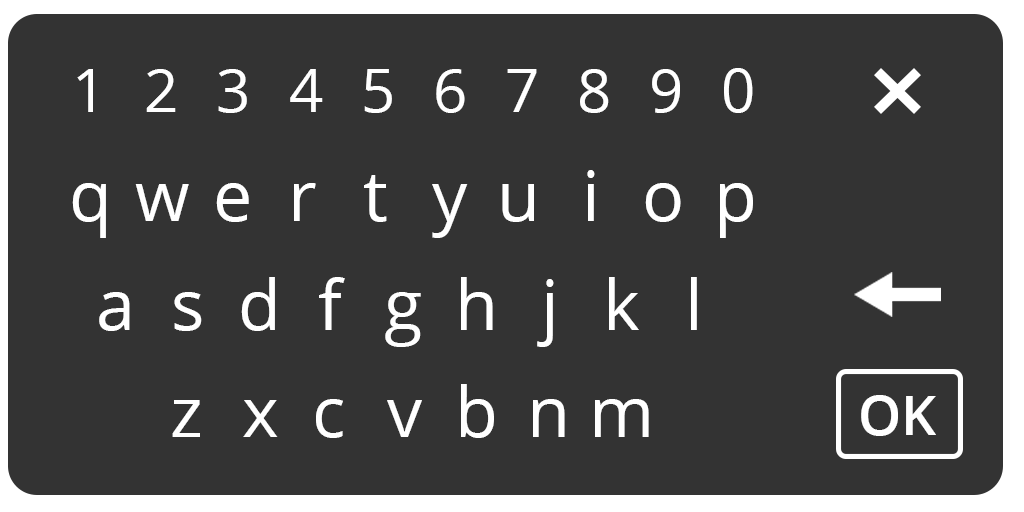
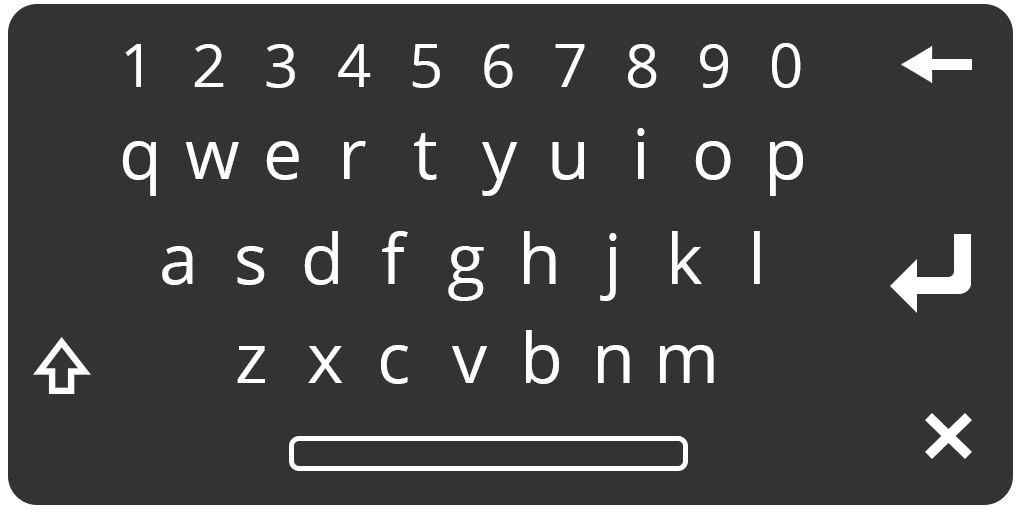
improved keyboard

diff --git a/src/simple-keyboard.js b/src/simple-keyboard.js
@@ -18,13 +18,14 @@ AFRAME.registerComponent('simple-keyboard', {
 
   init: function(){
     this.KEYBOARDS = {
-      'basic': {img: "./sk-basic.png", layout: [{"key":"1", "x":0.053, "y":0.089, "w":0.065, "h":0.167}, {"key":"2", "x":0.124, "y":0.089, "w":0.065, "h":0.167}, {"key":"3", "x":0.194, "y":0.089, "w":0.066, "h":0.167}, {"key":"4", "x":0.265, "y":0.089, "w":0.065, "h":0.167}, {"key":"5", "x":0.334, "y":0.089, "w":0.066, "h":0.167}, {"key":"6", "x":0.406, "y":0.089, "w":0.065, "h":0.167}, {"key":"7", "x":0.476, "y":0.089, "w":0.065, "h":0.167}, {"key":"8", "x":0.545, "y":0.089, "w":0.066, "h":0.167}, {"key":"9", "x":0.617, "y":0.089, "w":0.065, "h":0.167}, {"key":"0", "x":0.687, "y":0.089, "w":0.065, "h":0.167}, {"key":"Escape", "x":0.836, "y":0.101, "w":0.079, "h":0.158}, {"key":"Delete", "x":0.82, "y":0.507, "w":0.116, "h":0.132}, {"key":"Enter", "x":0.82, "y":0.726, "w":0.116, "h":0.164}, {"key":"q", "x":0.054, "y":0.308, "w":0.065, "h":0.167}, {"key":"w", "x":0.124, "y":0.308, "w":0.065, "h":0.167}, {"key":"e", "x":0.194, "y":0.308, "w":0.066, "h":0.167}, {"key":"r", "x":0.265, "y":0.308, "w":0.065, "h":0.167}, {"key":"t", "x":0.334, "y":0.308, "w":0.066, "h":0.167}, {"key":"y", "x":0.406, "y":0.308, "w":0.065, "h":0.167}, {"key":"u", "x":0.476, "y":0.308, "w":0.065, "h":0.167}, {"key":"i", "x":0.545, "y":0.308, "w":0.066, "h":0.167}, {"key":"o", "x":0.617, "y":0.308, "w":0.065, "h":0.167}, {"key":"p", "x":0.687, "y":0.308, "w":0.065, "h":0.167}, {"key":"a", "x":0.081, "y":0.519, "w":0.065, "h":0.167}, {"key":"s", "x":0.151, "y":0.519, "w":0.066, "h":0.167}, {"key":"d", "x":0.222, "y":0.519, "w":0.065, "h":0.167}, {"key":"f", "x":0.291, "y":0.519, "w":0.066, "h":0.167}, {"key":"g", "x":0.363, "y":0.519, "w":0.065, "h":0.167}, {"key":"h", "x":0.433, "y":0.519, "w":0.065, "h":0.167}, {"key":"j", "x":0.502, "y":0.519, "w":0.066, "h":0.167}, {"key":"k", "x":0.574, "y":0.519, "w":0.065, "h":0.167}, {"key":"l", "x":0.644, "y":0.519, "w":0.065, "h":0.167}, {"key":"z", "x":0.152, "y":0.728, "w":0.065, "h":0.167}, {"key":"x", "x":0.221, "y":0.728, "w":0.066, "h":0.167}, {"key":"c", "x":0.292, "y":0.728, "w":0.065, "h":0.167}, {"key":"v", "x":0.363, "y":0.728, "w":0.065, "h":0.167}, {"key":"b", "x":0.432, "y":0.728, "w":0.066, "h":0.167}, {"key":"n", "x":0.503, "y":0.728, "w":0.065, "h":0.167}, {"key":"m", "x":0.574, "y":0.728, "w":0.065, "h":0.167}] }
+      'basic': {img: "./sk-basic.png", layout: [{"key":"f", "x":0.345, "y":0.423, "w":0.071, "h":0.189}, {"key":"g", "x":0.416, "y":0.423, "w":0.071, "h":0.189}, {"key":"1", "x":0.093, "y":0.042, "w":0.071, "h":0.187}, {"key":"2", "x":0.164, "y":0.042, "w":0.071, "h":0.187}, {"key":"3", "x":0.234, "y":0.042, "w":0.071, "h":0.187}, {"key":"4", "x":0.304, "y":0.042, "w":0.071, "h":0.187}, {"key":"5", "x":0.375, "y":0.042, "w":0.071, "h":0.187}, {"key":"6", "x":0.445, "y":0.042, "w":0.071, "h":0.187}, {"key":"7", "x":0.515, "y":0.042, "w":0.071, "h":0.187}, {"key":"8", "x":0.585, "y":0.042, "w":0.071, "h":0.187}, {"key":"9", "x":0.656, "y":0.042, "w":0.072, "h":0.187}, {"key":"0", "x":0.727, "y":0.042, "w":0.07, "h":0.187}, {"key":"Delete", "x":0.853, "y":0.056, "w":0.113, "h":0.146}, {"key":"Enter", "x":0.854, "y":0.386, "w":0.113, "h":0.267}, {"key":"Escape", "x":0.883, "y":0.779, "w":0.083, "h":0.14}, {"key":"Shift", "x":0.016, "y":0.623, "w":0.088, "h":0.187}, {"key":"q", "x":0.093, "y":0.228, "w":0.071, "h":0.197}, {"key":"w", "x":0.164, "y":0.228, "w":0.071, "h":0.197}, {"key":"e", "x":0.234, "y":0.228, "w":0.071, "h":0.197}, {"key":"r", "x":0.304, "y":0.228, "w":0.071, "h":0.197}, {"key":"t", "x":0.375, "y":0.228, "w":0.071, "h":0.197}, {"key":"y", "x":0.445, "y":0.228, "w":0.071, "h":0.197}, {"key":"u", "x":0.515, "y":0.228, "w":0.071, "h":0.197}, {"key":"i", "x":0.585, "y":0.228, "w":0.071, "h":0.197}, {"key":"o", "x":0.656, "y":0.228, "w":0.072, "h":0.197}, {"key":"p", "x":0.727, "y":0.228, "w":0.07, "h":0.197}, {"key":"a", "x":0.134, "y":0.423, "w":0.071, "h":0.189}, {"key":"s", "x":0.205, "y":0.423, "w":0.071, "h":0.189}, {"key":"d", "x":0.275, "y":0.423, "w":0.071, "h":0.189}, {"key":"h", "x":0.486, "y":0.423, "w":0.071, "h":0.189}, {"key":"j", "x":0.556, "y":0.423, "w":0.071, "h":0.189}, {"key":"k", "x":0.626, "y":0.423, "w":0.072, "h":0.189}, {"key":"l", "x":0.698, "y":0.423, "w":0.07, "h":0.189}, {"key":"z", "x":0.213, "y":0.611, "w":0.071, "h":0.185}, {"key":"x", "x":0.284, "y":0.611, "w":0.071, "h":0.185}, {"key":"c", "x":0.354, "y":0.611, "w":0.071, "h":0.185}, {"key":"v", "x":0.424, "y":0.611, "w":0.071, "h":0.185}, {"key":"b", "x":0.495, "y":0.611, "w":0.071, "h":0.185}, {"key":"n", "x":0.565, "y":0.611, "w":0.072, "h":0.185}, {"key":"m", "x":0.636, "y":0.611, "w":0.07, "h":0.185}, {"key":" ", "x":0.257, "y":0.818, "w":0.438, "h":0.136}] }
     };
 
     this.keys = null;
     this.focused = false;
     this.keyHover = null;
     this.prevCheckTime = null;
+    this.shift = false;
 
     this.rawValue = this.data.value;
     this.defaultValue = this.data.value;
@@ -53,6 +54,7 @@ AFRAME.registerComponent('simple-keyboard', {
   },
 
   filter: function(str){
+    if (str == '') return '';
     for (var i = 0; i < this.data.filters.length; i++) {
       switch(this.data.filters[i]){
         case 'allcaps': 
@@ -67,9 +69,6 @@ AFRAME.registerComponent('simple-keyboard', {
         case 'trim':
           str = str.trim();
           break;
-        case 'hello':
-          if (str == 'hello') str += ' world!';
-        break;
       }
     }
     return this.data.maxlength > 0 ? str.substr(0, this.data.maxlength) : str;
@@ -86,12 +85,17 @@ AFRAME.registerComponent('simple-keyboard', {
         this.data.value = this.filter(this.rawValue);
         this.textInput.setAttribute('text', {value: this.data.value});
       break;
+      case 'Shift':
+        this.shift = !this.shift;
+        this.keyHover.el.setAttribute('material', {color: this.shift ? this.data.hoverColor : this.data.bgColor});
+        return;
+      break;
       case 'Escape':
         this.dismiss();
       break;
       default:
-        if (this.data.maxlength > 0 && this.data.value.length > this.data.maxlength) { break; }
-        this.rawValue += this.keyHover.key;
+        if (this.data.maxlength > 0 && this.rawValue.length > this.data.maxlength) { break; }
+        this.rawValue += this.shift ? this.keyHover.key.toUpperCase() : this.keyHover.key;
         this.data.value = this.filter(this.rawValue);
         this.textInput.setAttribute('text', {value: this.data.value});
       break;
@@ -117,7 +121,7 @@ AFRAME.registerComponent('simple-keyboard', {
 
   blur: function(ev){
     this.focused = false;
-    if (this.keyHover) this.keyHover.el.setAttribute('material', {color: this.data.bgColor});
+    if (this.keyHover && this.keyHover.key != 'Shift') this.keyHover.el.setAttribute('material', {color: this.data.bgColor});
     this.keyHover = null;
   },
 
@@ -185,7 +189,7 @@ AFRAME.registerComponent('simple-keyboard', {
       for (var i = 0; i < keys.length; i++) {
         var k = keys[i];
         if (uv.x > k.x && uv.x < k.x + k.w && (1.0 - uv.y) > k.y && (1.0 - uv.y) < k.y + k.h) {
-          if (this.keyHover) this.keyHover.el.setAttribute('material', {color: this.data.bgColor});
+          if (this.keyHover && (this.keyHover.key != 'Shift' || !this.shift)) this.keyHover.el.setAttribute('material', {color: this.data.bgColor});
           k.el.setAttribute('material', {color: this.data.hoverColor});
           this.keyHover = k;
           break;

diff --git a/src/index.html b/src/index.html
@@ -19,6 +19,7 @@ firebase.initializeApp(config);
 <script src="https://unpkg.com/aframe-animation-component@4.1.1/dist/aframe-animation-component.min.js"></script>
 <script src="https://unpkg.com/aframe-proxy-event-component@1.1.1/dist/aframe-proxy-event-component.min.js"></script>
 <script src="https://unpkg.com/aframe-haptics-component@1.4.1/dist/aframe-haptics-component.min.js"></script>
+<!--<script src="https://unpkg.com/aframe-particle-system-component@1.0.11/dist/aframe-particle-system-component.min.js"></script>-->
 <script src="supersays.js"></script>
 <script src="highscores.js"></script>
 <script src="simple-keyboard.js"></script>
@@ -47,10 +48,11 @@ firebase.initializeApp(config);
     <a-entity environment="preset: poison; skyColor: #1a1a1a; horizonColor: #154a55; lightPosition: 0 2.34 1; fog: 0.87; ground: hills; groundYScale: 2.83; groundColor: #171717; groundColor2: #161616; dressing: none; grid: 1x1; gridColor: #207384"></a-entity>
 
     <a-entity id="keyboard" 
-      simple-keyboard="label:You made it to the TOP 10!\nEnter your name:; labelColor: #ff4; fontColor: #fff; width: 1.0; filters: allcaps; maxlength: 10" 
+      simple-keyboard="label:You made it to the TOP 10!\nEnter your name:; labelColor: #ff4; filters: title; fontColor: #fff; width: 1.0; maxlength: 10" 
       position="0 1.38 -1.18" rotation="-12 0 0" visible="false"
       animation__open="property: visible; to: true; startEvents: askname; dur: 4000"
       proxy-event-detail="event: keyboard-accepted; to: #super; as: savescore"
+      proxy-event="event: keyboard-dismissed; to: #startbutton, #board; as: restart"
       >
     </a-entity>
         
@@ -88,6 +90,7 @@ firebase.initializeApp(config);
         animation__color ="property: material.color; from: #F00; to: #800; dur: 300; startEvents: hit">
         <a-entity mixin="sectorbase" material="color:#800"
           animation__color ="property: material.color; from: #F00; to: #800; dur: 300; startEvents: hit"></a-entity>
+        <!--<a-entity position="0 -0.01 -15" particle-system="color: #EF0000,#44CC00"></a-entity>-->
         <a-entity sound="src:#sound-note0; on: hit; poolSize: 20"></a-entity>
       </a-entity>
       <a-entity id="note1" rotation="0 90 0" mixin="sector emissive-anim pos-anim" material="color:#008"
